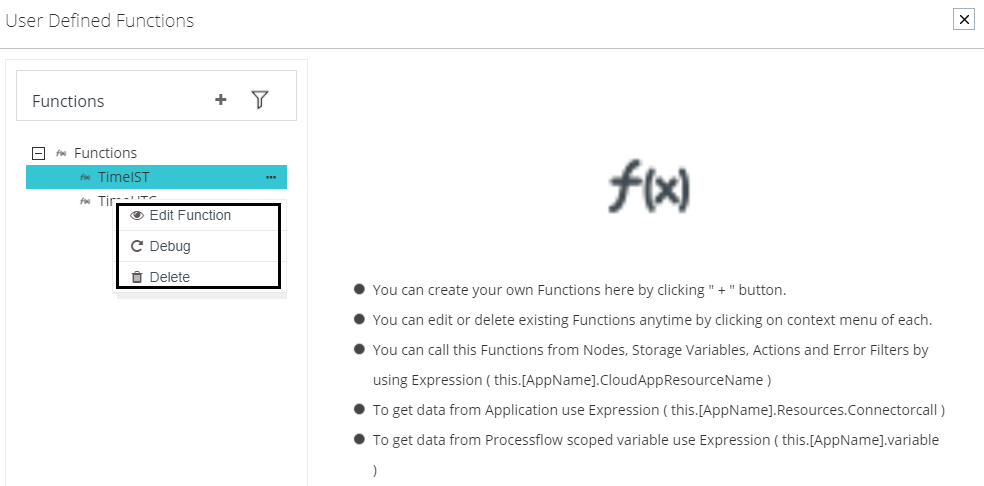
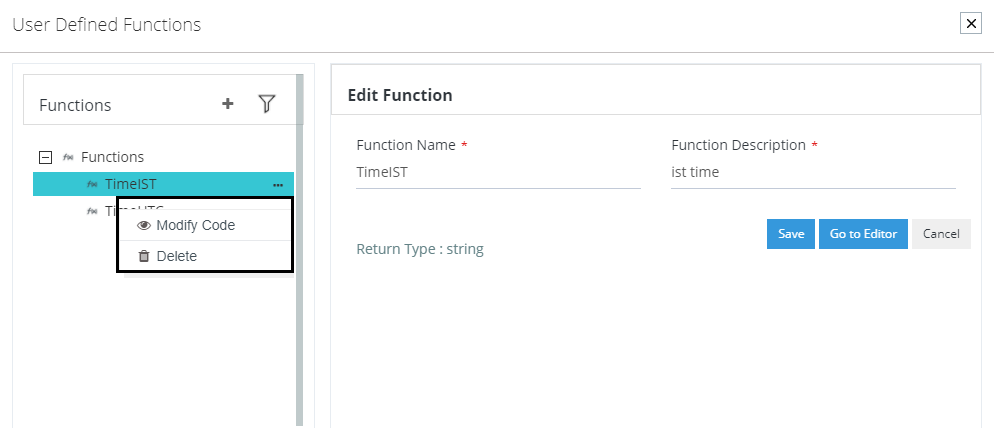
update functions & error mail notification body

diff --git a/_posts/ProcessFlow Management/User Defined Functions/2021-01-18-Listing-Editing-user-defined-functions.md b/_posts/ProcessFlow Management/User Defined Functions/2021-01-18-Listing-Editing-user-defined-functions.md
@@ -31,7 +31,7 @@ This document will enable you to work with the Listing structure for the users t
 
 4) Clicking over individual listed function, will allow you to view the **Function Name** and **Function Description** in EDIT mode. Users can any time alter and modify the Name and its Description.
 
-![UDFListing3]()
+![UDFListing3](\staticfiles\processflow\media\UDFListing3.PNG)
 
 4) You will have Context Menus beside each listed functions that will allow you to **Modify Code** & **DELETE** the existing functions.
 
@@ -56,15 +56,14 @@ the existing functions:
 - **Function Name** - Will display the name of the function.
 - **Function Description** - Will display the description of the function.
 - **Function Return Type** - Will display the return type of the function used in the code.
-- **Used in** - Will display the area where the function is used in.
 
 4) You can anytime edit the function information **Function Name** & **Function Description**. 
 
-![UDFedit2]()
+![UDFedit2](\staticfiles\processflow\media\UDFedit2.PNG)
 
 5) You can SAVE the function informations directly. Also, you can navigate to the Code Editor page, if required to modify the same.
 
-![UDFedit3]()
+![UDFedit3](\staticfiles\processflow\media\UDFedit3.PNG)
 
 Following the above steps, you successfully Edit and modify the Function Informations.
 Along with editing the function details, you will be able to debug the function code in the code editor as well.
@@ -79,15 +78,15 @@ Along with editing the function details, you will be able to debug the function 
 
 2) Click on the Context Menus available beside each of the existing function.
 
-3) Select the **Modify Code** option available in the Context Menu. The **Code Editor** panel opens on the Right Side of the window.
+3) Select the **Modify Code** option available in the Context Menu. 
 
 ![UDFdebug](\staticfiles\processflow\media\UDFdebug.PNG)
 
-4) You can anytime Update and Modify the code within the code editor, whenever required.
+4) The **Code Editor** panel opens on the Right Side of the window. You can anytime Update and Modify the code within the code editor, whenever required.
 
-![UDFdebug1](\staticfiles\processflow\media\UDFdebug.PNG)
+![UDFdebug1]()
 
-5) You need to Validate the code to view its validation. 
+5) You need to Validate the code to view its validation. Click on the **VALIDATE & SAVE** button. 
 
 ### Validation Status: Successful
 
@@ -95,25 +94,23 @@ a) If your function code validation is successful, you get its success message.
 
 ![UDFdebug3]()
 
-b) You can SAVE the function immediately after the successful validation.
-
-![UDFdebug4]()
+b) Your function gets SAVED immediately after the successful validation.
 
 ### Validation Status: Failed
 
 a) If your function code validation has failed, you'll be notified with the errors and error position within the function code.
 
-![UDFdebug5]()
+![UDFdebug5](\staticfiles\processflow\media\UDFdebug5.PNG)
 
-b) Clicking on the errors, will navigate you to individual error positions in the **Code Editor**.
+b) Clicking on the errors, will navigate you to individual error positions. Click on **DEBUG** button.
 
-![UDFdebug6]()
+![UDFdebug6](\staticfiles\processflow\media\UDFdebug6.PNG)
 
-c) Debug all the listed errors and click on the **DEBUG** button to validate again.
+c) You will be navigated to the **Code Editor tab**, to debug all the listed errors. 
 
-![UDFdebug7]()
+![UDFdebug7](\staticfiles\processflow\media\UDFdebug7.PNG)
 
-d) Click on the SAVE button after debugging successfully.
+d) Click on the **VALIDATE & SAVE** button once debugged.
 
 Following the above process, you can successfully debug or modify the function code.
 
@@ -132,7 +129,7 @@ Following the above process, you can successfully debug or modify the function c
 
 3) Clicking on the **DELETE** option, you'll get confirmation message for the deletion process.
 
-![udfdelete2]()
+![udfdelete2](\staticfiles\processflow\media\udfdelete2.PNG)
 
 4) Clicking on the YES will successfully delete the function.
 

diff --git a/_posts/ProcessFlow Management/User Defined Functions/2014-01-14-overview-of-user-defined-functions.md b/_posts/ProcessFlow Management/User Defined Functions/2014-01-14-overview-of-user-defined-functions.md
@@ -19,5 +19,5 @@ Below are the modules that would help you to work with the functions.
 |Modules|Description|
 |------------------|----------------|
 |[Creating User Defined Functions](/processflow/Create-User-Defined-Functions/)| This document will help you with the steps and information for creating User Defined Appresource Functions.|
-|[Listing & Editing User Defined Functions](/processflow/Listing-Editing-user-defined-functions/)|This document will help with the steps and information |
+|[Listing & Editing User Defined Functions](/processflow/Listing-Editing-user-defined-functions/)|This document will help with the steps and information on the listing structure of this feature. You will also get related informations on Editing, Modifying Code and Deleting existing listed functions.| |
 |[Function Code validation](/processflow/Function-Code-Validation/)|This document will help you with the instructions related to the Code Editor Window for Validation process of the Function Code.|

diff --git a/_posts/Rule-Management/PreconfiguredRule/2020-04-01-error-mail-notification.md b/_posts/Rule-Management/PreconfiguredRule/2020-04-01-error-mail-notification.md
@@ -77,7 +77,7 @@ Users cannot modify any configuration to the rule.
 Users would receive the Error based Hourly Notification in the email id provided for the Organisation. The Rule will be triggered every hour and would check for errors. However, if No-Errors found, you will not recive any Email Notification Reports
 even if the rule triggers. A sample mail is provided below:
 
-![errormailnotification1](\staticfiles\rules\media\errormailnotification1.PNG)
+![errormailnotification1](\staticfiles\rules\media\errormailnotification1 (2).png)
 
 **Note:**
 
